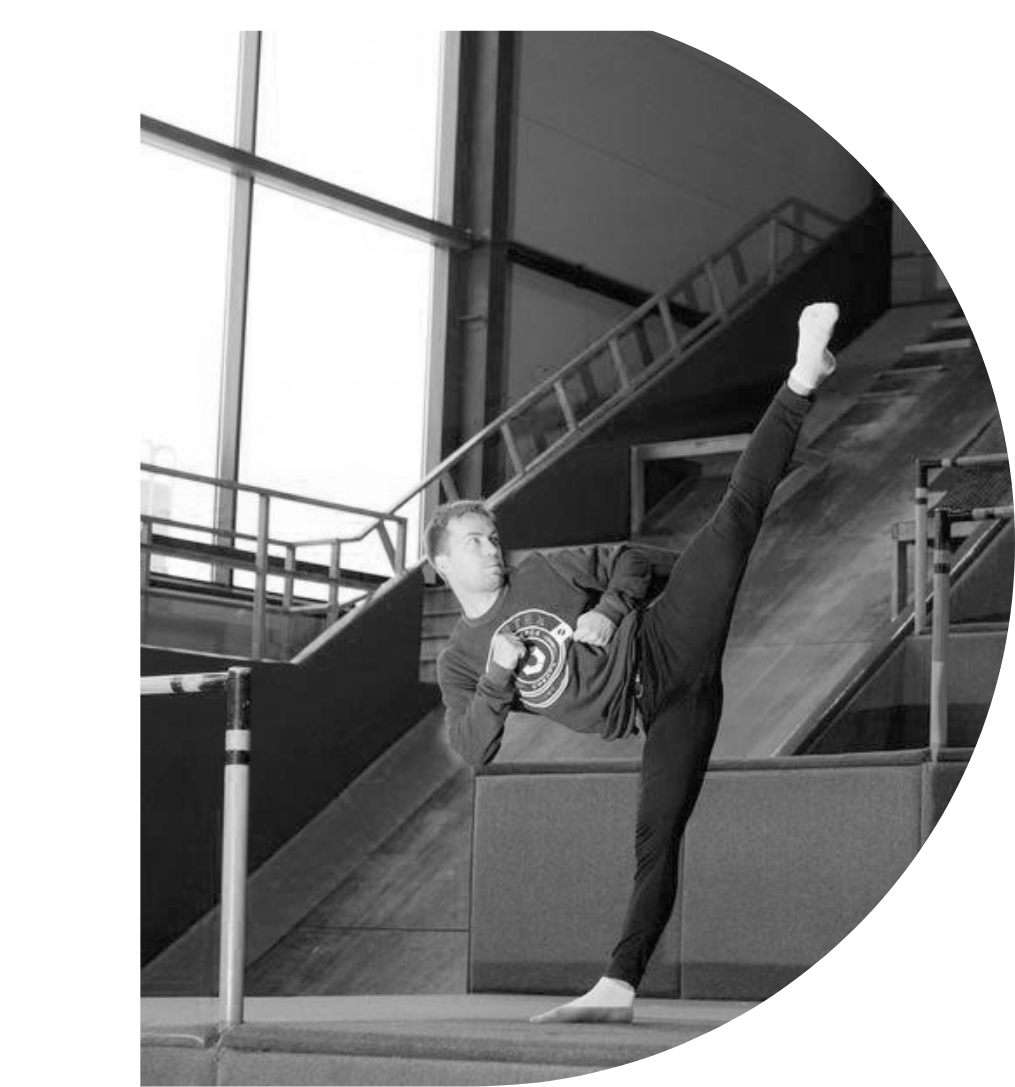
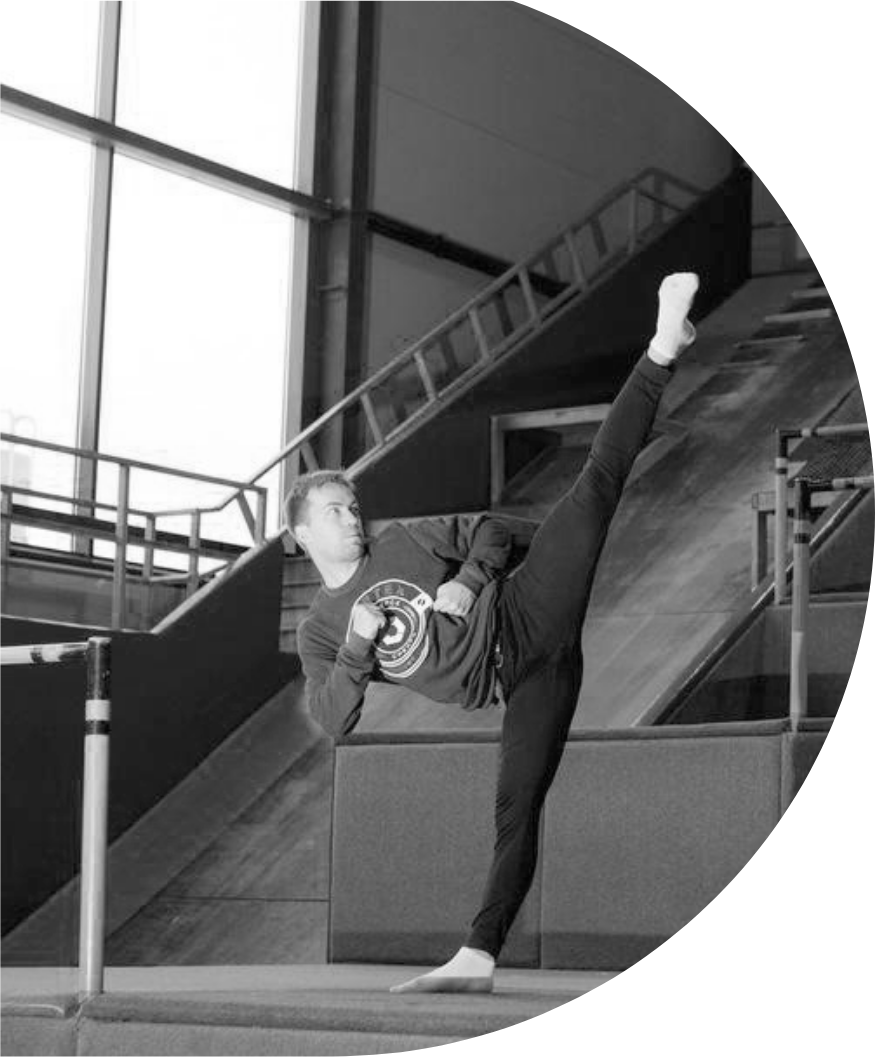
Адаптив готов

diff --git a/css/sect5.css b/css/sect5.css
@@ -28,3 +28,29 @@
 .sect5__society img{
     width: 40px;
 }
+.sect5__headline {
+    text-align: left;
+    padding: 0;
+}
+
+@media screen and (max-width: 760px) {
+    .sect5__content {
+        flex-direction: column;
+        align-items: flex-start;
+        text-align: right;
+    }
+    .sect5__info {
+        padding: 20px;
+        align-self: flex-end;
+        margin-right: 0;
+    }
+    .sect5__headline {
+        text-align: right;
+    }
+    .sect5__img {
+        width: 80%;
+    }
+    .sect5__text {
+        font-size: 12px;
+    }
+}

diff --git a/index.html b/index.html
@@ -244,7 +244,7 @@
                     <a href="tel:89080215114" class="sect8__phone-num">8 (908)-021-51-14</a>
                     <span class="sect8__phone-name">Артём</span>
                 </div>
-                <span class="sect8__address">660064 г. Красноярск, ул.Остров Отдыха, 6</span>
+                <span class="sect8__address">660064 г. Красноярск, ул.Остров Отдыха,&nbsp6</span>
             </div>
         </div>
     </section>

diff --git a/css/sect8.css b/css/sect8.css
@@ -50,3 +50,22 @@
 .sect8__map {
     filter: grayscale(80%);
 }
+
+@media screen and (max-width: 1024px) {
+    .sect8__map {
+        height: 530px;
+    }
+    .sect8__info {
+        width: 94%;
+        left: 3%;
+        padding-left: 10px;
+        padding-right: 10px;
+    }
+    .sect8__phone, .sect8__address {
+        font-size: 14px;
+        text-align: center;
+    }
+    .sect8__phone-icon {
+        width: 20px;
+    }
+}

diff --git a/css/footer.css b/css/footer.css
@@ -13,3 +13,18 @@
 .footer .society-icon {
     width: 30px;
 }
+
+@media screen and (max-width: 740px) {
+    .footer__content {
+        padding: 0 20px;
+        font-size: 14px;
+    }
+}
+
+@media screen and (max-width: 625px) {
+    .footer__content {
+        flex-direction: column;
+        padding: 25px 20px;
+        height: 150px;
+    }
+}

diff --git a/css/sect7.css b/css/sect7.css
@@ -89,3 +89,13 @@
     background: #000;
     color: #ffffff;
 }
+
+@media screen and (max-width: 970px) {
+    .sect7__cards {
+        flex-direction: column;
+    }
+    .sect7__card:not(:last-child) {
+        margin-right: 0;
+        margin-bottom: 20px;
+    }
+}
